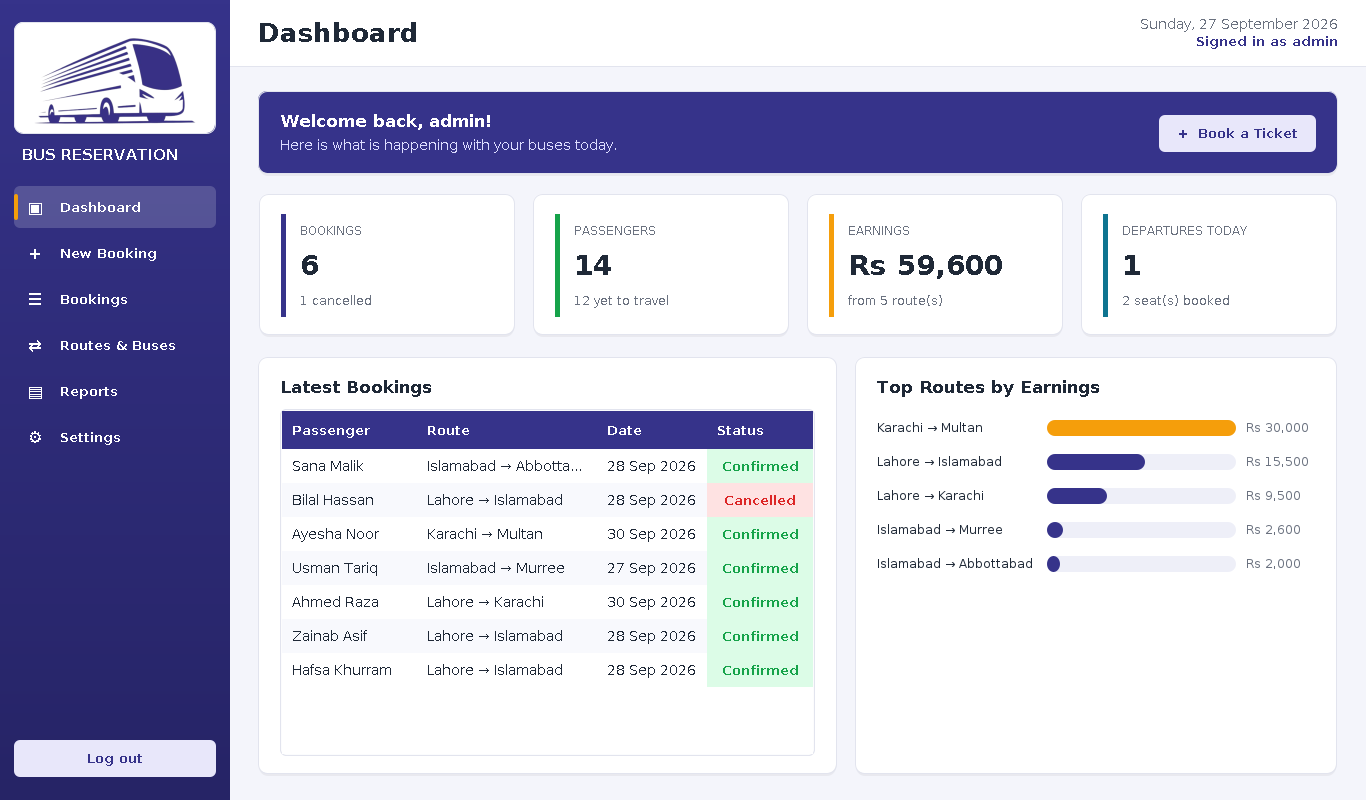
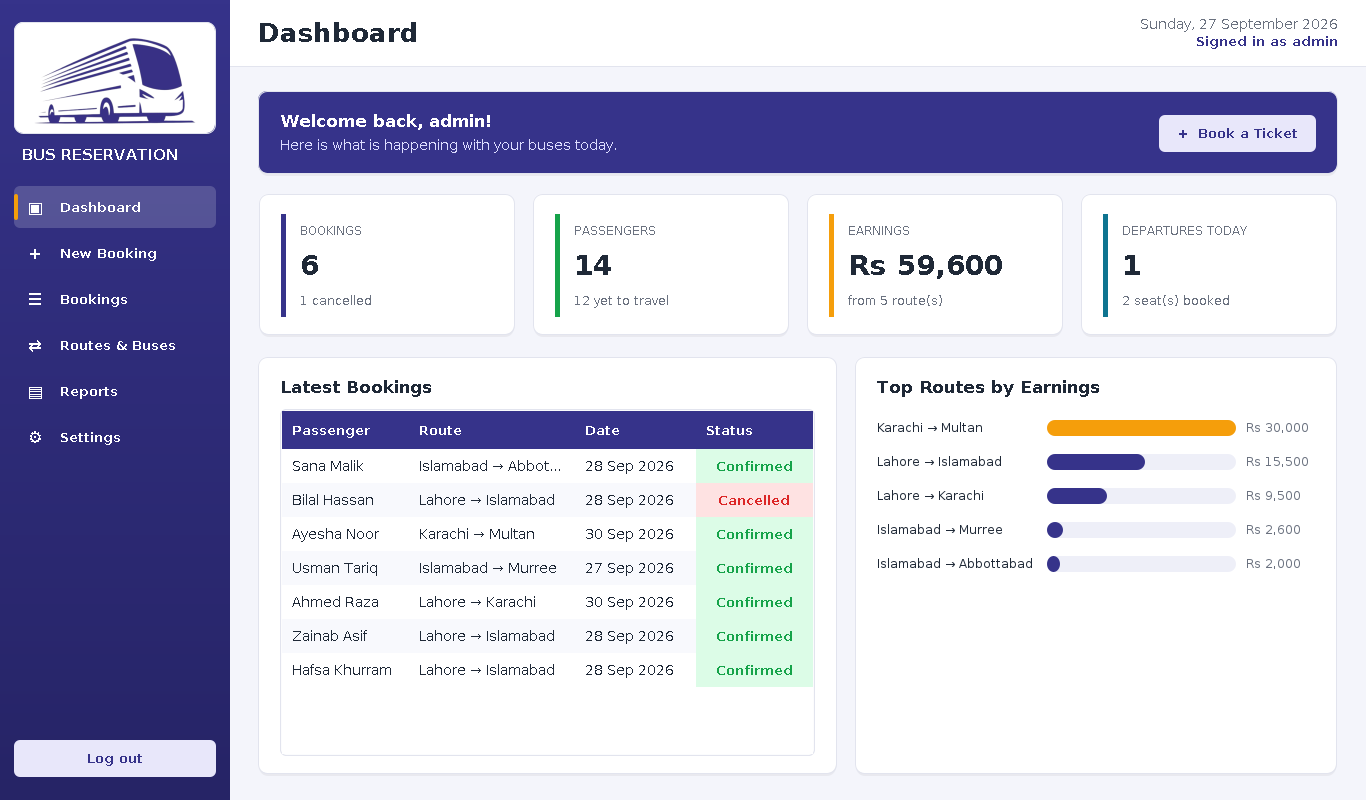
Fix empty Route Details in Reports
Route Details kept showing the route that was selected when the app
started (usually one with no bookings), so it stayed empty even after
bookings were made. It now follows the busiest route until the admin
picks one, and keeps the admin's choice after that.

- Route Details shows seats per booking again (as in the proposal)
- Empty tables show a short message instead of a blank box

Claude-Session: https://claude.ai/code/session_01Dns6ZaskSpQcoKSxZhfwKW

diff --git a/src/busreservationsystem/ReportsPanel.java b/src/busreservationsystem/ReportsPanel.java
@@ -37,6 +37,8 @@ public class ReportsPanel extends JPanel {
     private final JLabel totalsLabel = Theme.label(" ", Theme.LABEL, Theme.PRIMARY);
     private final JLabel routeTotals = Theme.label(" ", Theme.LABEL, Theme.PRIMARY);
     private boolean updating;
+    /** True once the admin picks a route; until then the busiest route is shown automatically. */
+    private boolean routeChosenByUser;
 
     public ReportsPanel(DataStore store) {
         this.store = store;
@@ -52,6 +54,7 @@ public class ReportsPanel extends JPanel {
         period.addActionListener(e -> refresh());
         routeBox.addActionListener(e -> {
             if (!updating) {
+                routeChosenByUser = true;
                 refreshDetails();
             }
         });
@@ -78,12 +81,13 @@ public class ReportsPanel extends JPanel {
         summaryCard.add(Theme.scroll(summary), BorderLayout.CENTER);
         summaryCard.add(totalsLabel, BorderLayout.SOUTH);
 
-        detailModel = Theme.tableModel(new String[]{"Ticket", "Passenger", "Date", "Payment", "Status"},
-                String.class, String.class, LocalDate.class, Double.class, String.class);
+        detailModel = Theme.tableModel(new String[]{"Ticket", "Passenger", "Date", "Seats", "Payment", "Status"},
+                String.class, String.class, LocalDate.class, Integer.class, Double.class, String.class);
         JTable details = Theme.table(detailModel);
         Theme.styleTable(details);
-        details.getColumnModel().getColumn(4).setCellRenderer(Theme.statusRenderer());
-        Theme.columnWidths(details, 92, 120, 110, 95, 105);
+        details.getColumnModel().getColumn(5).setCellRenderer(Theme.statusRenderer());
+        Theme.columnWidths(details, 85, 110, 110, 65, 92, 100);
+        details.putClientProperty(Theme.EMPTY_TEXT, "No bookings on this route for the selected period.");
         JPanel detailTop = new JPanel(new BorderLayout(10, 0));
         detailTop.setOpaque(false);
         detailTop.add(Theme.label("Route Details", Theme.HEADING, Theme.TEXT), BorderLayout.WEST);
@@ -98,12 +102,12 @@ public class ReportsPanel extends JPanel {
         GridBagConstraints c = new GridBagConstraints();
         c.fill = GridBagConstraints.BOTH;
         c.weighty = 1;
-        c.weightx = 0.4;
+        c.weightx = 0.38;
         c.insets = new Insets(0, 0, 0, 9);
         summaryCard.setPreferredSize(new java.awt.Dimension(100, 100));
         center.add(summaryCard, c);
         c.gridx = 1;
-        c.weightx = 0.6;
+        c.weightx = 0.62;
         c.insets = new Insets(0, 9, 0, 0);
         detailCard.setPreferredSize(new java.awt.Dimension(100, 100));
         center.add(detailCard, c);
@@ -171,8 +175,11 @@ public class ReportsPanel extends JPanel {
         for (Map.Entry<String, Double> row : rows) {
             routeBox.addItem(row.getKey());
         }
-        if (current != null) {
+        if (current != null && routeChosenByUser) {
             routeBox.setSelectedItem(current);
+        } else if (routeBox.getItemCount() > 0) {
+            // Routes are sorted by earnings, so this shows the busiest route first.
+            routeBox.setSelectedIndex(0);
         }
         updating = false;
         refreshDetails();
@@ -195,7 +202,7 @@ public class ReportsPanel extends JPanel {
                 continue;
             }
             detailModel.addRow(new Object[]{b.getTicketNo(), b.getFullName(), b.getTravelDate(),
-                b.getFare(), b.getStatus()});
+                b.getSeatCount(), b.getFare(), b.getStatus()});
             if (b.isConfirmed()) {
                 passengers++;
                 seats += b.getSeatCount();

diff --git a/src/busreservationsystem/Theme.java b/src/busreservationsystem/Theme.java
@@ -326,8 +326,29 @@ public final class Theme {
             public boolean getScrollableTracksViewportWidth() {
                 return getParent() == null || getPreferredSize().width <= getParent().getWidth();
             }
+
+            @Override
+            protected void paintComponent(Graphics g) {
+                super.paintComponent(g);
+                Object message = getClientProperty(EMPTY_TEXT);
+                if (getRowCount() == 0 && message != null) {
+                    // Friendly message instead of a blank white box.
+                    Graphics2D g2 = (Graphics2D) g.create();
+                    g2.setRenderingHint(RenderingHints.KEY_TEXT_ANTIALIASING, RenderingHints.VALUE_TEXT_ANTIALIAS_ON);
+                    g2.setFont(BODY);
+                    g2.setColor(MUTED);
+                    java.awt.Rectangle view = getVisibleRect();
+                    String text = message.toString();
+                    int x = view.x + Math.max(10, (view.width - g2.getFontMetrics().stringWidth(text)) / 2);
+                    g2.drawString(text, x, view.y + 50);
+                    g2.dispose();
+                }
+            }
         };
     }
+
+    /** Client property: message shown inside a table while it has no rows. */
+    public static final String EMPTY_TEXT = "emptyText";
 
     /** Drop-down look without the Nimbus gradient. */
     public static class FlatComboUI extends javax.swing.plaf.basic.BasicComboBoxUI {

diff --git a/src/busreservationsystem/DashboardPanel.java b/src/busreservationsystem/DashboardPanel.java
@@ -63,8 +63,9 @@ public class DashboardPanel extends JPanel {
                 String.class, String.class, LocalDate.class, String.class);
         JTable recent = Theme.table(recentModel);
         Theme.styleTable(recent);
+        recent.putClientProperty(Theme.EMPTY_TEXT, "No bookings yet. Click \"Book a Ticket\" to add one.");
         recent.getColumnModel().getColumn(3).setCellRenderer(Theme.statusRenderer());
-        Theme.columnWidths(recent, 135, 180, 110, 105);
+        Theme.columnWidths(recent, 110, 150, 105, 100);
 
         Theme.Card recentCard = new Theme.Card(new BorderLayout(0, 12));
         recentCard.add(Theme.label("Latest Bookings", Theme.HEADING, Theme.TEXT), BorderLayout.NORTH);

diff --git a/src/busreservationsystem/BookingsPanel.java b/src/busreservationsystem/BookingsPanel.java
@@ -55,6 +55,7 @@ public class BookingsPanel extends JPanel {
                 java.time.LocalTime.class, String.class, String.class, Double.class, String.class);
         table = Theme.table(model);
         Theme.styleTable(table);
+        table.putClientProperty(Theme.EMPTY_TEXT, "No bookings found. Try another search or filter.");
         table.setSelectionMode(ListSelectionModel.SINGLE_SELECTION);
         table.getColumnModel().getColumn(8).setCellRenderer(Theme.statusRenderer());
         Theme.columnWidths(table, 85, 150, 200, 110, 85, 85, 80, 90, 110);
